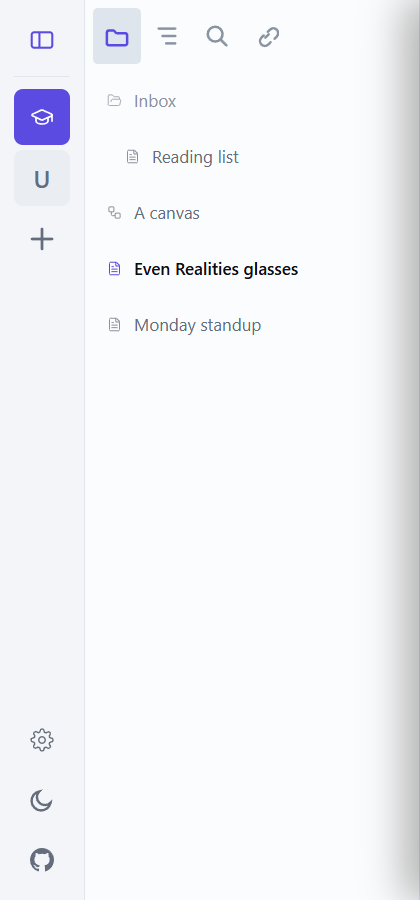
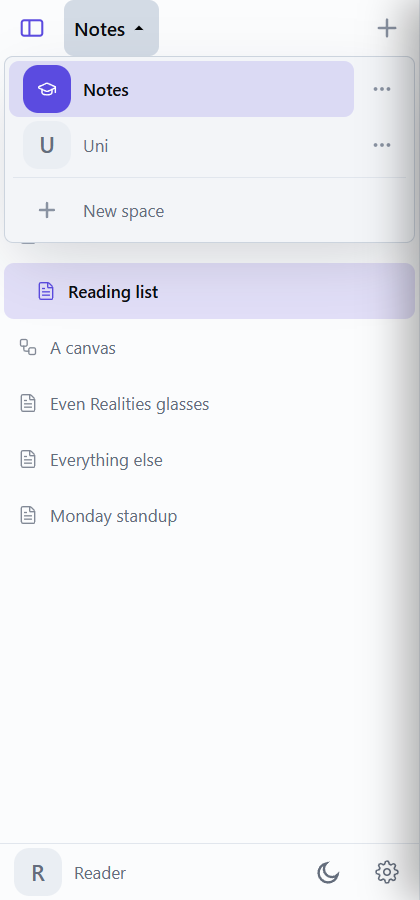
test: the drive seeds what the file list is built from, and reads the switcher

diff --git a/scripts/even-e2e.py b/scripts/even-e2e.py
@@ -44,6 +44,11 @@ NOTE_PATH = f"{SPACE}/Even Realities glasses.md"
 OTHER_PATH = f"{SPACE}/Monday standup.md"
 DEEP_PATH = f"{SPACE}/Inbox/Reading list.md"
 CANVAS_PATH = f"{SPACE}/A canvas.canvas"
+# Everything the app has learned to write since the mapping was last driven: the
+# properties at the head of a note, a fence with a caption, callouts by name, a
+# comment to nobody, and a folded section. Its own note rather than more of the one
+# above, so every assertion about that note's pages still says what it said.
+MORE_PATH = f"{SPACE}/Everything else.md"
 
 # A second space, for the icons: one that chose an icon and one that did not.
 OTHER_SPACE = "/Uni"
@@ -106,6 +111,54 @@ A footnote[^one], a [link](https://nibeditor.com) and a wikilink to
 
 No backtick, no check mark, no ballot box, no tab: ✓ ✗ ☐ ☑ and a tab between
 these	two words. Nothing is dropped, and nothing draws as nothing.
+"""
+
+MORE = r"""---
+tags: [glasses, panel]
+status: reading
+---
+
+# Everything else
+
+%% A note to myself, which nobody is read out to. %%
+
+Words around %% an aside %% a comment.
+
+## A fence with a caption
+
+```ts src/panel.ts
+const rows = 8
+```
+
+## Callouts by name
+
+> [!warning]
+> Mind the gap.
+
+> [!recipe]
+> Flour and water.
+
+> [!tip] Mind the gap
+> Between the two.
+
+> [!note]- Shut
+> Behind the fold.
+
+## What is left
+
+- [ ] a task not done
+- [x] a task done
+
+| Band | Rows |
+| :--- | ---: |
+| head | 1 |
+| body | 8 |
+
+Inline $E = mc^2$ and a display formula:
+
+$$
+\int_0^1 x^2\,dx = \frac{1}{3}
+$$
 """
 
 OTHER = "# Monday standup\n\nSomewhere for the wikilink to point.\n"
@@ -387,8 +440,13 @@ window.__bands = () => {
 
 SEED = r"""
 async ([rows]) => {
-  const db = await new Promise((resolve, reject) => {
-    const request = indexedDB.open('nib', 1)
+  // Whatever version the app itself made, rather than a version of this script's
+  // own: the page has already booted by the time this runs, so the database is
+  // there and asking for an older version is a `VersionError` and a drive that
+  // measures nothing. Only a database this script somehow met first is created here,
+  // and then at the version it is opened at.
+  const open = (version) => new Promise((resolve, reject) => {
+    const request = version === undefined ? indexedDB.open('nib') : indexedDB.open('nib', version)
     request.onupgradeneeded = () => {
       const made = request.result
       if (!made.objectStoreNames.contains('files')) made.createObjectStore('files', { keyPath: 'path' })
@@ -403,6 +461,13 @@ async ([rows]) => {
     request.onerror = () => reject(request.error)
   })
 
+  let db = await open()
+  if (!db.objectStoreNames.contains('files')) {
+    const version = db.version + 1
+    db.close()
+    db = await open(version)
+  }
+
   const put = (store, row) => new Promise((resolve, reject) => {
     const request = db.transaction(store, 'readwrite').objectStore(store).put(row)
     request.onsuccess = () => resolve()
@@ -412,6 +477,14 @@ async ([rows]) => {
   const now = Date.now()
   for (const [path, content] of rows) {
     await put('files', { path, content, modified: now, created: now })
+    // And a row in `stats`, because that is what the file list is built from: one
+    // row per file with its dates and nothing else, so a tree can be drawn without
+    // reading a single body. A seed that wrote only the bodies left the app with
+    // three notes it could open by name and an empty sidebar. See
+    // lib/web/store.ts, where every write puts both.
+    if (db.objectStoreNames.contains('stats')) {
+      await put('stats', { path, modified: now, created: now })
+    }
   }
 
   // The picture the note names, so that nothing on the page asks the server for
@@ -428,6 +501,9 @@ async ([rows]) => {
     data: png.buffer,
     modified: now,
   })
+  if (db.objectStoreNames.contains('stats')) {
+    await put('stats', { path: '/Notes/sketch.png', modified: now, created: now })
+  }
 
   return true
 }
@@ -526,6 +602,7 @@ def main() -> int:
                         [OTHER_PATH, OTHER],
                         [DEEP_PATH, DEEP],
                         [CANVAS_PATH, CANVAS],
+                        [MORE_PATH, MORE],
                     ]
                 ],
             )
@@ -1093,6 +1170,56 @@ def main() -> int:
             back = page.evaluate("window.__bands()")
             screens.append({"name": "glasses-3", "lineNumbers": True, **naming(back)})
 
+            # ── Everything the app has learned to write since ─────────────────
+            # The mapping has unit tests for each of these; what this says is that a
+            # note holding all of them reaches the panel through the whole road - the
+            # app's own reader, the plugin's paging, the containers - and that nothing
+            # the reader was never meant to see came with it.
+            open_note(page, "Everything else")
+            page.wait_for_timeout(900)
+            whole = []
+            for _page in range(12):
+                bands = page.evaluate("window.__bands()")
+                whole.append(f"{bands.get('nibHead', '')}\n{bands.get('nibBody', '')}")
+                page.evaluate("window.__gesture('down')")
+                page.wait_for_timeout(180)
+
+            said = "\n".join(whole)
+            report.ok(
+                "a captioned fence says what it is above the code, and names the language alone",
+                "src/panel.ts" in said and "‘‘‘ts" in said and "‘‘‘ts src" not in said,
+                next((one for one in said.split("\n") if "src/panel.ts" in one), "not there"),
+            )
+            report.ok(
+                "callouts say which kind they are, named or not, folded or not",
+                all(one in said for one in ["WARNING", "RECIPE", "Mind the gap", "Behind the fold"]),
+                "; ".join(one for one in ["WARNING", "RECIPE", "Behind the fold"] if one not in said),
+            )
+            report.ok(
+                "and a callout's fold sign is not read out as words",
+                "]-" not in said and "[!" not in said,
+            )
+            report.ok(
+                "a comment is not on the panel, whichever way it was written",
+                "note to myself" not in said and "an aside" not in said,
+            )
+            report.ok(
+                "the properties at the head of a note are not on the panel either",
+                "tags:" not in said and "status: reading" not in said,
+            )
+            report.ok(
+                "tasks are boxes, filled or not",
+                "□ a task not done" in said and "■ a task done" in said,
+            )
+            report.ok(
+                "a table keeps its columns, and maths keeps its dollars",
+                "head" in said and "body" in said and "$$" in said and "E = mc^2" in said,
+            )
+            page.screenshot(path=str(OUT / "phone-everything.png"))
+
+            open_note(page, "Even Realities glasses")
+            page.wait_for_timeout(900)
+
             # ── The glasses' own microphone, and what a command costs on it ──
             # Emil, on even 0.5.7: "right now it's extremely delayed ... it takes so
             # long for a voice command that there's no reason to use it." This is the
@@ -1287,24 +1414,36 @@ def main() -> int:
             press(page, "Show sidebar")
             page.wait_for_timeout(400)
 
+            # The rail of squares is gone: the spaces are a switcher at the top of the
+            # sidebar now, and each row wears its mark in a badge. Opened by its own
+            # name, which is the button that says which space is up.
+            opened = press(page, "Notes") or press(page, "Uni")
+            page.wait_for_timeout(500)
+
             marks = page.evaluate(
                 """
-                () => [...document.querySelectorAll('.space')].map((one) => {
-                  const path = one.querySelector('svg path')
+                () => [...document.querySelectorAll('.spaces .nib-row')].map((one) => {
+                  const badge = one.querySelector('.nib-badge')
+                  const path = badge ? badge.querySelector('svg path') : null
                   return {
-                    name: one.getAttribute('aria-label'),
-                    shape: one.querySelectorAll('svg path').length,
+                    name: (one.querySelector('.nib-row-label')?.textContent ?? '').trim(),
+                    shape: badge ? badge.querySelectorAll('svg path').length : 0,
                     // The half that cannot be seen in the DOM: an element in the
-                    // wrong namespace is there, is white, is the right size, and
-                    // draws nothing at all. See scripts/even-stage.mjs.
+                    // wrong namespace is there, is the right size, and draws nothing
+                    // at all. See scripts/even-stage.mjs.
                     drawn: path ? path.namespaceURI : null,
-                    said: one.textContent.trim(),
+                    said: badge ? (badge.textContent ?? '').trim() : '',
                   }
                 })
                 """
             )
             wearing = next((one for one in marks if one["name"] == "Notes"), None)
             plain = next((one for one in marks if one["name"] == "Uni"), None)
+            report.ok(
+                "the spaces open from the switcher in the sidebar",
+                opened and len(marks) >= 2,
+                f"{len(marks)} rows",
+            )
             report.ok(
                 "a space that chose an icon draws it in the plugin",
                 bool(
@@ -1315,7 +1454,7 @@ def main() -> int:
                 json.dumps(wearing),
             )
             report.ok(
-                "and one that chose none draws its letter, never an empty square",
+                "and one that chose none draws its letter, never an empty badge",
                 bool(plain and plain["shape"] == 0 and plain["said"] == "U"),
                 json.dumps(plain),
             )
